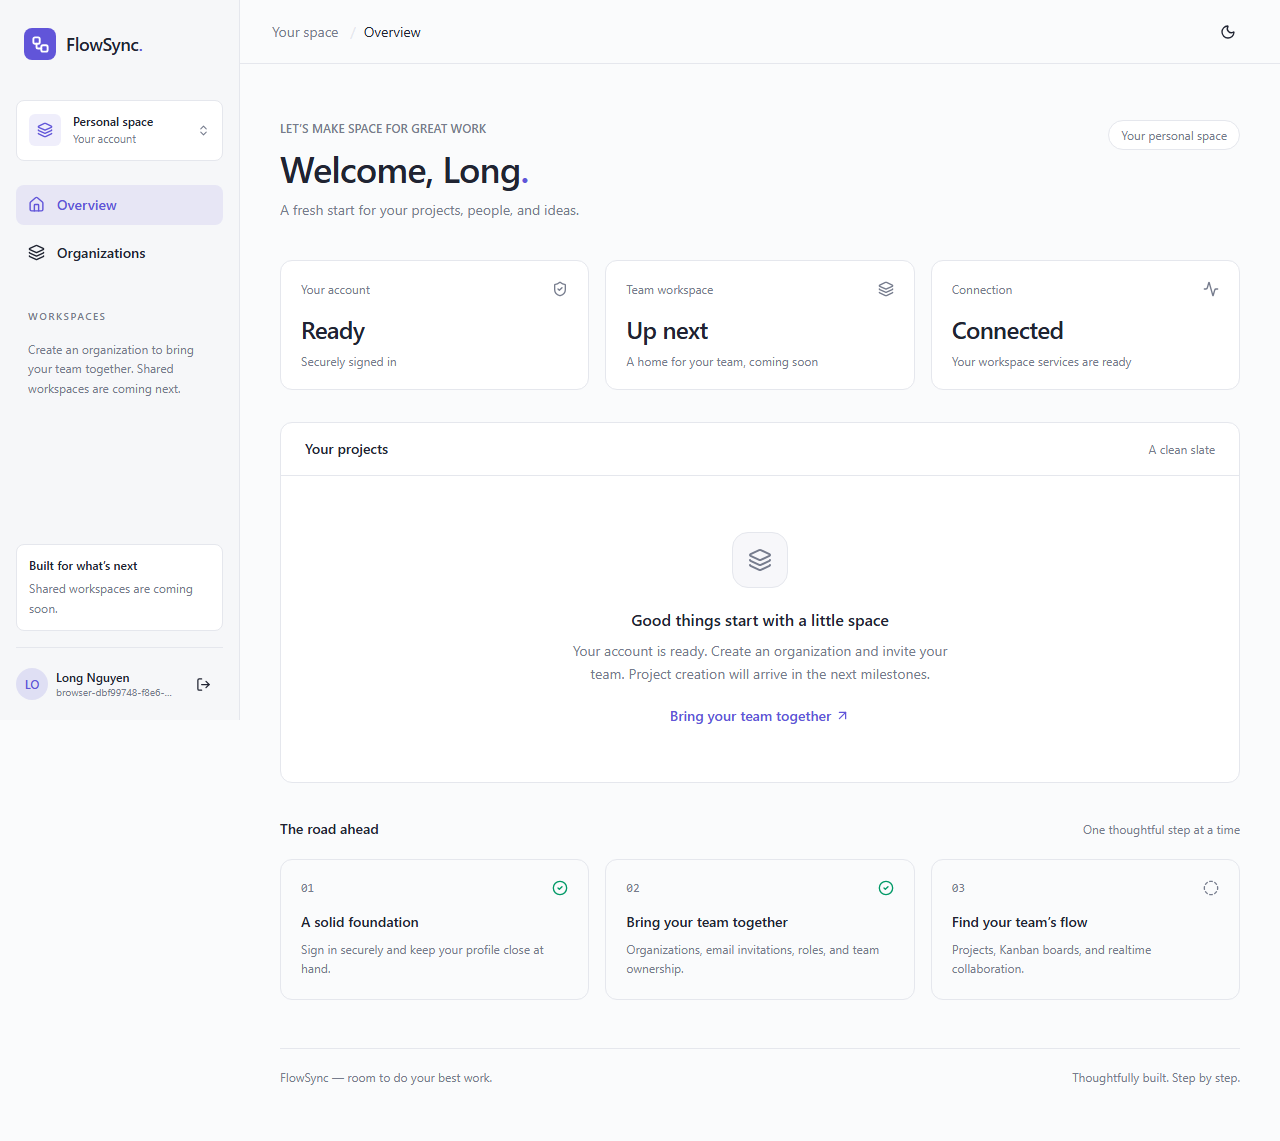
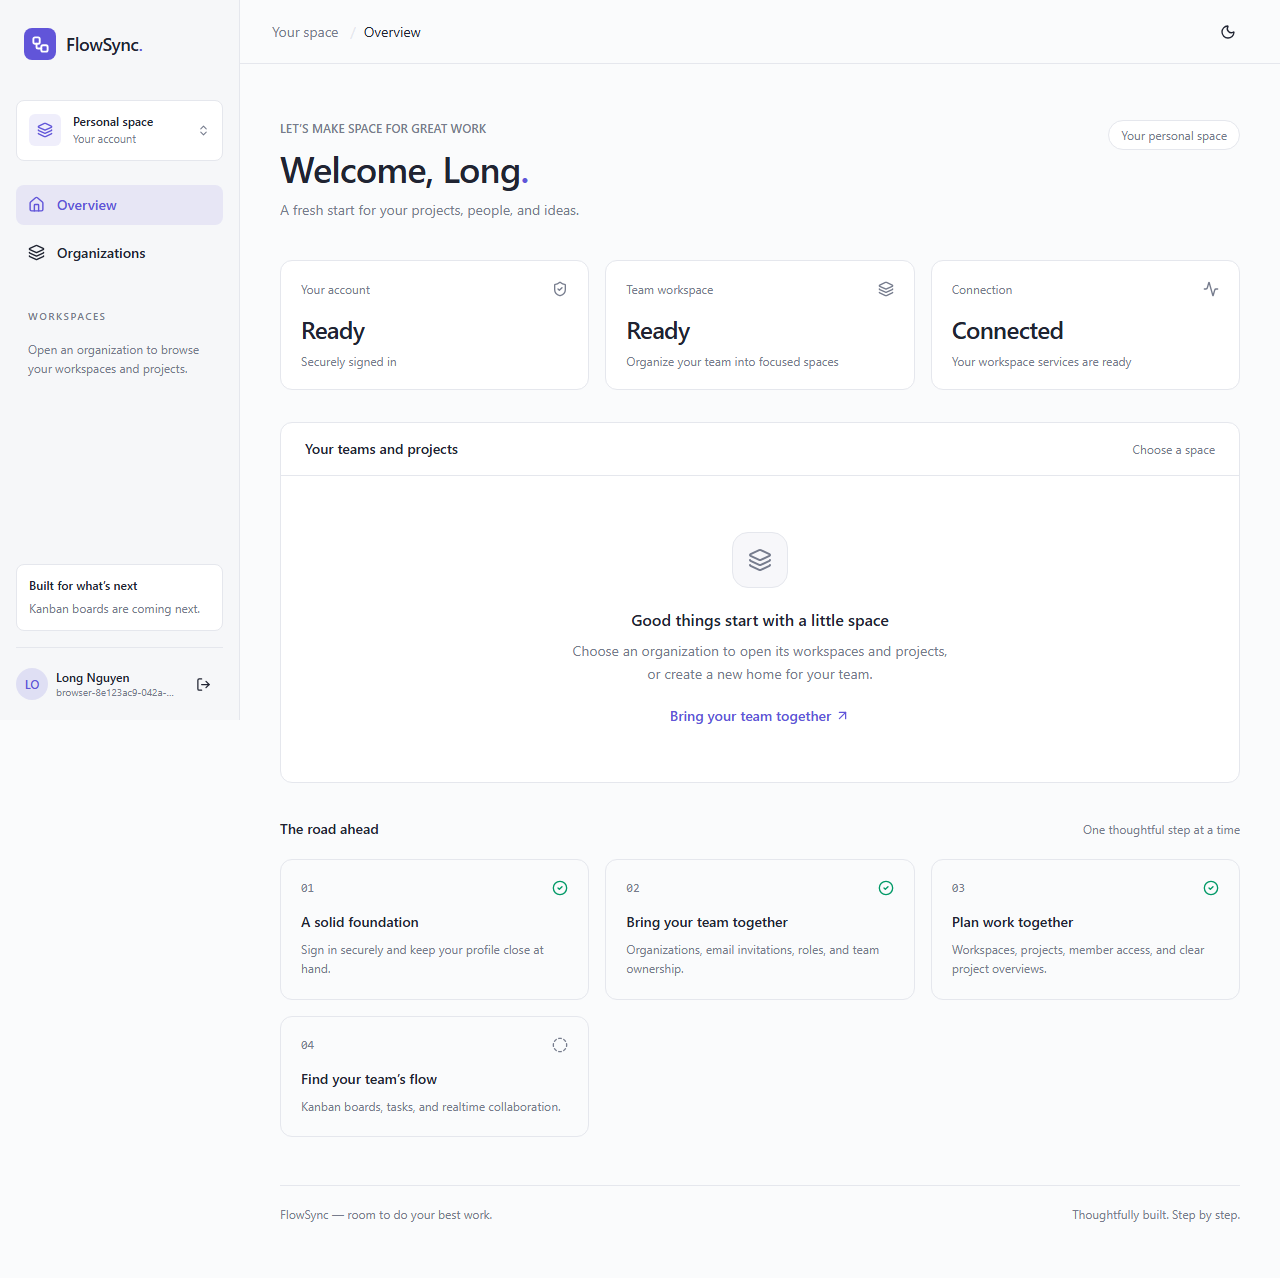
docs(phase3): document private scopes and verified project workflows

diff --git a/README.md b/README.md
@@ -2,7 +2,7 @@
 
 A team collaboration platform bringing projects, Kanban boards, conversations, and a future AI assistant into one calm workspace. Built as a fullstack engineering portfolio with explicit tenant boundaries and production deployment in mind.
 
-**Current delivery: Phase 2 — Organization.** Secure accounts and sessions, organization CRUD and logos, members and roles, atomic ownership transfer, email invitations, acceptance and revocation. Workspace/project/board/task/realtime features follow in later phases. AI intentionally follows the MVP.
+**Current delivery: Phase 3 ? Project management.** Secure accounts/sessions, organizations/logos, invitations and roles, private workspaces/projects, scoped membership, ownership transfer and real project overviews. Kanban/tasks/realtime follow in later phases. AI intentionally follows the MVP.
 
 ## Features shipped
 
@@ -12,6 +12,8 @@ A team collaboration platform bringing projects, Kanban boards, conversations, a
 - Backend validation, Origin protection, strict CORS, Helmet, Redis-backed throttling, no token storage in localStorage.
 - Tenant-scoped organization lists with pagination, filtering and sorting; reusable OWNER/ADMIN/MEMBER policy with permission checks against current database membership.
 - Organization settings, private PNG/JPEG/WebP logos, member role/removal controls and atomic ownership transfer. Owner controls have explicit confirmation for destructive actions.
+- Workspace/project CRUD with private membership boundaries, OWNER/ADMIN management, project owner controls, status/date validation and paginated lists. Member removal clears descendant memberships and assignments.
+- Real project overview with task/completed/overdue/member counts and recent activity; responsive workspace/project settings and membership screens.
 - Single-use, seven-day invitations with matching-email acceptance. Durable encrypted delivery outbox, BullMQ retry worker and local Mailpit SMTP capture.
 - PostgreSQL + Prisma 7 schema for the complete planned domain, checked-in initial migration.
 - Docker Compose PostgreSQL, Redis, private MinIO bucket, Mailpit, migration job, frontend, backend and worker containers. Random local secrets generated by setup.
@@ -26,6 +28,7 @@ Screenshots are generated by `npm run test:browser` from the running application
 ![Dark mode](docs/screenshots/dashboard-dark.png)
 ![Organization settings and members](docs/screenshots/organizations.png)
 ![Invitation acceptance](docs/screenshots/invitation.png)
+![Project management](docs/screenshots/projects.png)
 
 ## Architecture
 
@@ -75,6 +78,8 @@ Open **Organizations** from the dashboard to create/select a team. `npm run dev`
 These are default ports. If a port is occupied, configure `WEB_PORT` with matching `WEB_URL`, `REDIS_PORT`, `POSTGRES_PORT` with matching `DATABASE_URL`, or `MINIO_API_PORT` with matching `MINIO_ENDPOINT` / `MINIO_PUBLIC_ENDPOINT` and `MINIO_CONSOLE_PORT`. This workspace currently uses web **3100**, Redis **16379**, and MinIO **19000/19001** to coexist with other local projects; API remains **4000**.
 
 `npm run infra:up` starts infrastructure including Mailpit. `npm run infra:down` stops services and preserves named volumes. Changing database/storage passwords after initializing volumes requires an explicit credential update. On upgrades, rerun `npm run setup`: it adds missing Phase 2 configuration while preserving existing credentials.
+
+Select **Open workspaces** inside an organization, then **Open projects** inside a workspace. Owners/admins create and manage these spaces. Ordinary members need explicit workspace membership and project membership; project owners may manage their own project while those memberships remain valid.
 
 ## Environment variables
 
@@ -142,6 +147,14 @@ OWNER controls settings, roles, removal, deletion and ownership. ADMIN can invit
 
 Cookie flow assumes frontend/API on the same site (localhost on separate ports locally; shared parent domain or reverse proxy in production). Cross-site deployments need an explicit SameSite/CSRF design. Logout revokes refresh immediately; already-issued access JWT remains valid up to 15 minutes. Same-browser concurrent refresh is serialized in one tab; coordination across tabs is a documented hardening item.
 
+### Workspace/project API
+
+`POST, GET /api/workspaces` create/list with required `organizationId`; `GET, PATCH, DELETE /api/workspaces/:id` read/update/delete. `/api/workspaces/:id/members` lists/adds existing organization members; `DELETE /api/workspaces/:id/members/:userId` removes workspace and descendant project access.
+
+`POST, GET /api/projects` create/list with required `workspaceId` and optional status filter; `GET, PATCH, DELETE /api/projects/:id` read/update/delete. `/api/projects/:id/members` lists/adds workspace members; `DELETE /api/projects/:id/members/:userId` removes a non-owner member. `POST /api/projects/:id/transfer-ownership` chooses an existing member. `GET /api/projects/:id/overview` returns actual counts and recent activity.
+
+Creation automatically adds the creator to parent/member scopes. Patch fields stay absent when omitted; start/due dates are validated against both submitted and existing values. Structural deletion refuses existing child work or retained history.
+
 ## Validation
 
 ```bash
@@ -160,7 +173,7 @@ HTTP tests require local PostgreSQL/Redis/MinIO/Mailpit and deployed migrations.
 
 Unit tests cover auth boundaries, RBAC and encrypted invitation payloads. HTTP tests add tenant isolation, role/owner invariants, concurrent transfer/acceptance, invitation expiry/reuse/revocation, actual SMTP delivery and hostile image uploads. Browser tests cover desktop/mobile organization management, two-account role changes, SMTP invitations, matching-email registration and replay rejection.
 
-Phase 2 test suite: **11 unit + 23 HTTP integration + 5 browser tests**. See [verification.md](docs/verification.md) for verified runtime results.
+Phase 3 test suite: **14 unit + 33 HTTP integration + 7 browser tests**. See [verification.md](docs/verification.md) for verified runtime results.
 
 ## System design decisions and challenges
 

diff --git a/docs/roadmap.md b/docs/roadmap.md
@@ -1,15 +1,15 @@
 # Milestones và acceptance criteria
 
-| Phase                         | Deliverable                                                                   | Kiểm tra trước khi đi tiếp                                                                       |
-| ----------------------------- | ----------------------------------------------------------------------------- | ------------------------------------------------------------------------------------------------ |
-| 1 — Foundation (hoàn thành)   | npm monorepo, web/API, auth, DB schema, Docker, Swagger, ENV, CI              | Build/typecheck/lint; register → login → me → refresh → replay → logout; readiness services thật |
-| 2 — Organization (hoàn thành) | CRUD + logo, membership, owner transfer, RBAC, invitation email/accept/revoke | Cross-tenant/RBAC, concurrency, SMTP và browser flow đã kiểm tra                                 |
-| 3 — Project management        | Workspace/project CRUD + membership, overview                                 | Private scope, pagination/filter/sort, date validation, permission tests                         |
-| 4 — Kanban                    | Board/column/task CRUD, assignment, labels, checklist, archive, dnd-kit       | Thứ tự bền vững, cross-board move bị chặn, optimistic rollback, concurrency tests                |
-| 5 — Realtime                  | Socket.IO auth + Redis adapter, board rooms, notification, presence           | Hai browser nhận update; reconnect/gap recovery; room permission + token expiry                  |
-| 6 — Collaboration / MVP done  | Comments/mentions, activity, attachments, search, inbox, personal tasks       | Flow mục 34 chạy end-to-end; mention notifications, download permission, MIME/size checks        |
-| 7 — Queue hardening           | Worker deployment, retry/idempotency, email/maintenance/file jobs             | Duplicate delivery không duplicate side effect; retries/failure observability                    |
-| 8 — AI                        | Provider abstraction, summary/overdue, meeting-note suggestions               | Validated JSON, context tenant scoped, confirmation trước task creation                          |
-| 9 — Production                | Staging/prod deploy, TLS, monitoring, backups, security review                | Restore rehearsal, migration rollback plan, load test, deployment smoke test                     |
+| Phase                               | Deliverable                                                                   | Kiểm tra trước khi đi tiếp                                                                       |
+| ----------------------------------- | ----------------------------------------------------------------------------- | ------------------------------------------------------------------------------------------------ |
+| 1 — Foundation (hoàn thành)         | npm monorepo, web/API, auth, DB schema, Docker, Swagger, ENV, CI              | Build/typecheck/lint; register → login → me → refresh → replay → logout; readiness services thật |
+| 2 — Organization (hoàn thành)       | CRUD + logo, membership, owner transfer, RBAC, invitation email/accept/revoke | Cross-tenant/RBAC, concurrency, SMTP và browser flow đã kiểm tra                                 |
+| 3 — Project management (hoàn thành) | Workspace/project CRUD + membership/transfer, overview                        | Private scopes, date PATCH, 2-account browser access revocation đã kiểm tra                      |
+| 4 — Kanban                          | Board/column/task CRUD, assignment, labels, checklist, archive, dnd-kit       | Thứ tự bền vững, cross-board move bị chặn, optimistic rollback, concurrency tests                |
+| 5 — Realtime                        | Socket.IO auth + Redis adapter, board rooms, notification, presence           | Hai browser nhận update; reconnect/gap recovery; room permission + token expiry                  |
+| 6 — Collaboration / MVP done        | Comments/mentions, activity, attachments, search, inbox, personal tasks       | Flow mục 34 chạy end-to-end; mention notifications, download permission, MIME/size checks        |
+| 7 — Queue hardening                 | Worker deployment, retry/idempotency, email/maintenance/file jobs             | Duplicate delivery không duplicate side effect; retries/failure observability                    |
+| 8 — AI                              | Provider abstraction, summary/overdue, meeting-note suggestions               | Validated JSON, context tenant scoped, confirmation trước task creation                          |
+| 9 — Production                      | Staging/prod deploy, TLS, monitoring, backups, security review                | Restore rehearsal, migration rollback plan, load test, deployment smoke test                     |
 
 Mỗi phase làm theo module, có migration khi thay đổi dữ liệu và giữ toàn bộ checks trước đó xanh. Phase 1 không expose endpoint CRUD cho domain còn lại chỉ vì schema đã có entity. Không tự động publish/deploy khi chưa có môi trường và cấu hình thật.

diff --git a/docs/architecture.md b/docs/architecture.md
@@ -58,7 +58,7 @@ Chỉ tạo module khi có hành vi thực tế; không tạo hàng loạt modul
 
 ## C. Database design
 
-Schema Prisma được chuẩn bị cho toàn domain. Phase 2 expose auth/health và organization/members/invitations/logo. Workspace/project/task chưa có endpoint.
+Schema Prisma được chuẩn bị cho toàn domain. Phase 3 expose auth/health, organization/members/invitations/logo và workspace/project/members/overview. Board/task/realtime chưa có endpoint.
 
 | Entity                            | Relationship / constraint chính                                                                       |
 | --------------------------------- | ----------------------------------------------------------------------------------------------------- |
@@ -96,7 +96,7 @@ Các invariant xuyên tenant (assignee thuộc project, column cùng board, labe
 
 ## E. RBAC design
 
-Authentication guard xác định user. Phase 2 dùng permission service + decorator/guard, resolve organization membership từ DB và kiểm tra lại dưới row lock cho mutations. Thiếu resource/membership trả 404. OWNER quản lý settings/role/ownership/delete; ADMIN chỉ invite MEMBER nếu organization cho phép; MEMBER đọc organization và member profiles. Workspace/project permissions sẽ được triển khai ở Phase 3.
+Authentication guard xác định user. Permission service + decorator/guard resolve membership từ DB và kiểm tra lại dưới row lock cho mutations. Thiếu resource/membership trả 404, kể cả project trong parent private. OWNER quản lý organization settings/role/ownership/delete; ADMIN chỉ invite MEMBER nếu được phép. OWNER/ADMIN quản lý workspace/project của tenant; MEMBER cần membership workspace + project. Project owner có thêm quyền quản lý project khi vẫn đủ parent membership. Lock order cố định organization → workspace → project; parent không được đổi qua PATCH.
 
 Organization membership không tự động cho MEMBER truy cập mọi private workspace/project. Admin/owner bypass scope phải được policy cho phép rõ ràng. Dùng reusable permission service + decorators/guard, rồi kiểm tra resource trong use-case; frontend ẩn nút chỉ hỗ trợ UX. Socket join và worker actions phải dùng cùng policy. Role không nhúng vào JWT vì membership có thể thay đổi ngay.
 
@@ -116,7 +116,7 @@ Phase 2 có worker thật cho invitation email. Token acceptance chỉ lưu SHA-
 
 ## H. MVP roadmap
 
-Chi tiết và acceptance criteria ở [roadmap.md](roadmap.md). Phase 1 và Phase 2 đã có hành vi thật, kiểm thử và commits theo module. Tiếp theo Workspace/Project → Kanban → Realtime → Collaboration. AI chỉ sau toàn bộ luồng MVP ở mục 34.
+Chi tiết và acceptance criteria ở [roadmap.md](roadmap.md). Phase 1–3 đã có hành vi thật, kiểm thử và commits theo module. Tiếp theo Kanban → Realtime → Collaboration. AI chỉ sau toàn bộ luồng MVP ở mục 34.
 
 ## I. Risks và mitigation
 

diff --git a/docs/phase3.md b/docs/phase3.md
@@ -1,5 +1,7 @@
 # Phase 3 — Workspace and project management
 
+Đã triển khai API và UI `/workspaces`, `/projects` với CRUD, scope members, project ownership và overview. Unit contracts/policy, 9 HTTP workspace/project cases và 2 browser flows (CRUD/mobile + 2-account membership/transfer/revocation) đã chạy thành công.
+
 Triển khai theo lát: shared contracts + scope policy → workspace CRUD/membership → project CRUD/membership/overview → web → verification. Mỗi lát có tests, commit và push `main` riêng.
 
 OWNER/ADMIN organization được quản lý mọi workspace/project trong organization. MEMBER chỉ đọc workspace đã được thêm vào và project đã được thêm vào trong workspace đó; membership organization không tự mở private scope. Project owner có thể quản lý project nếu vẫn có cả organization/workspace/project membership. Roles luôn đọc từ DB.
